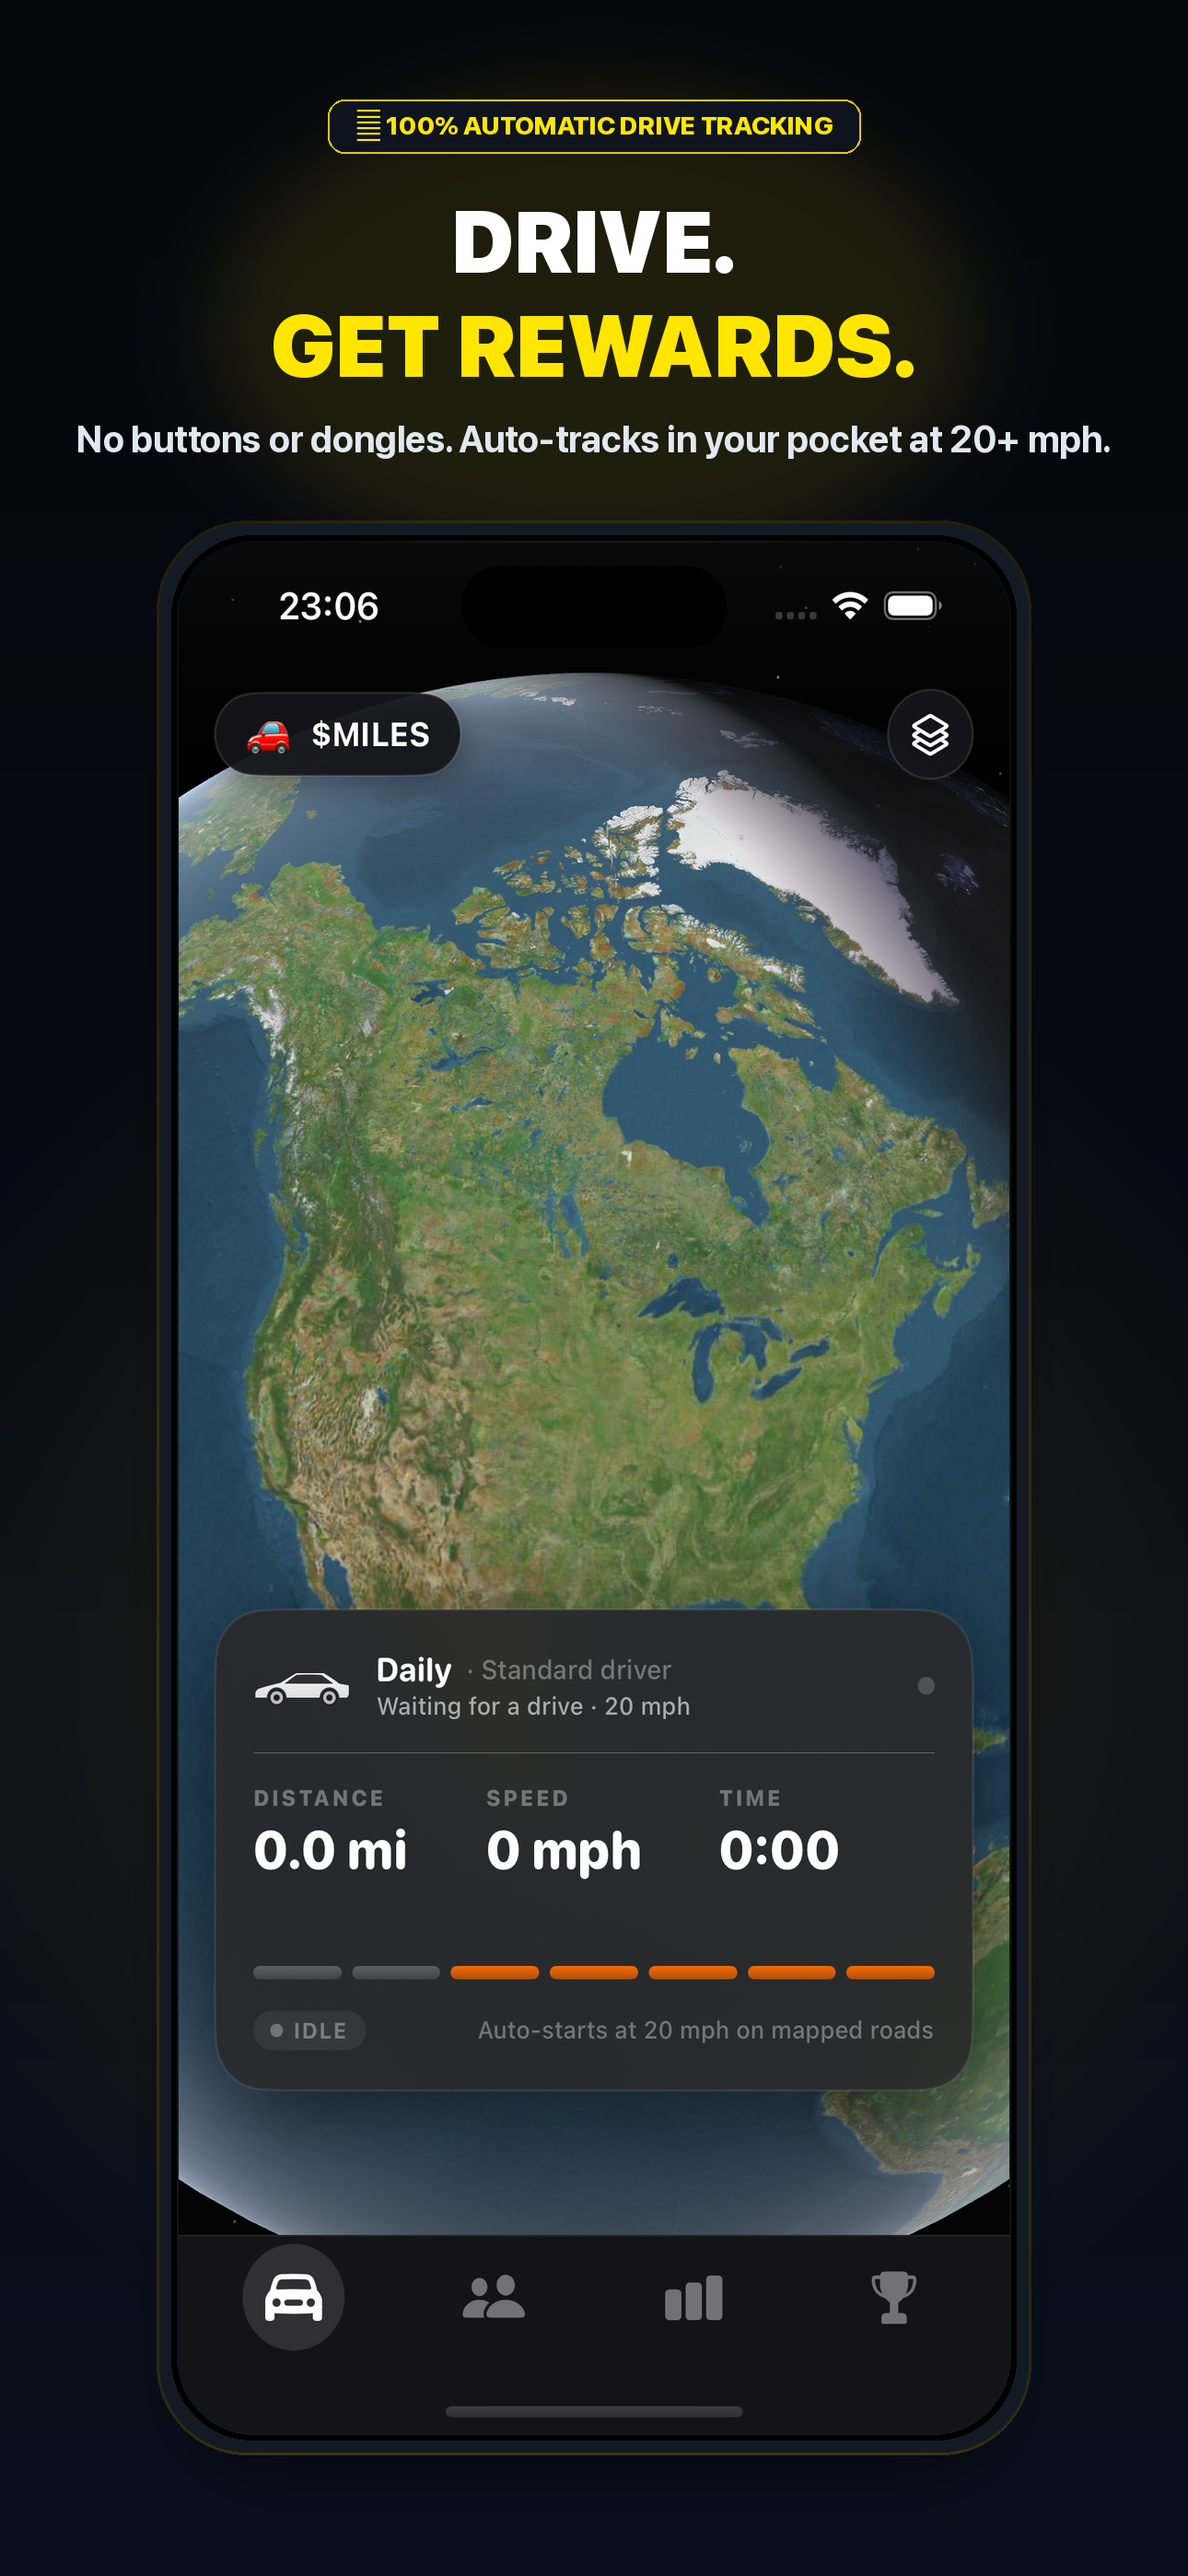
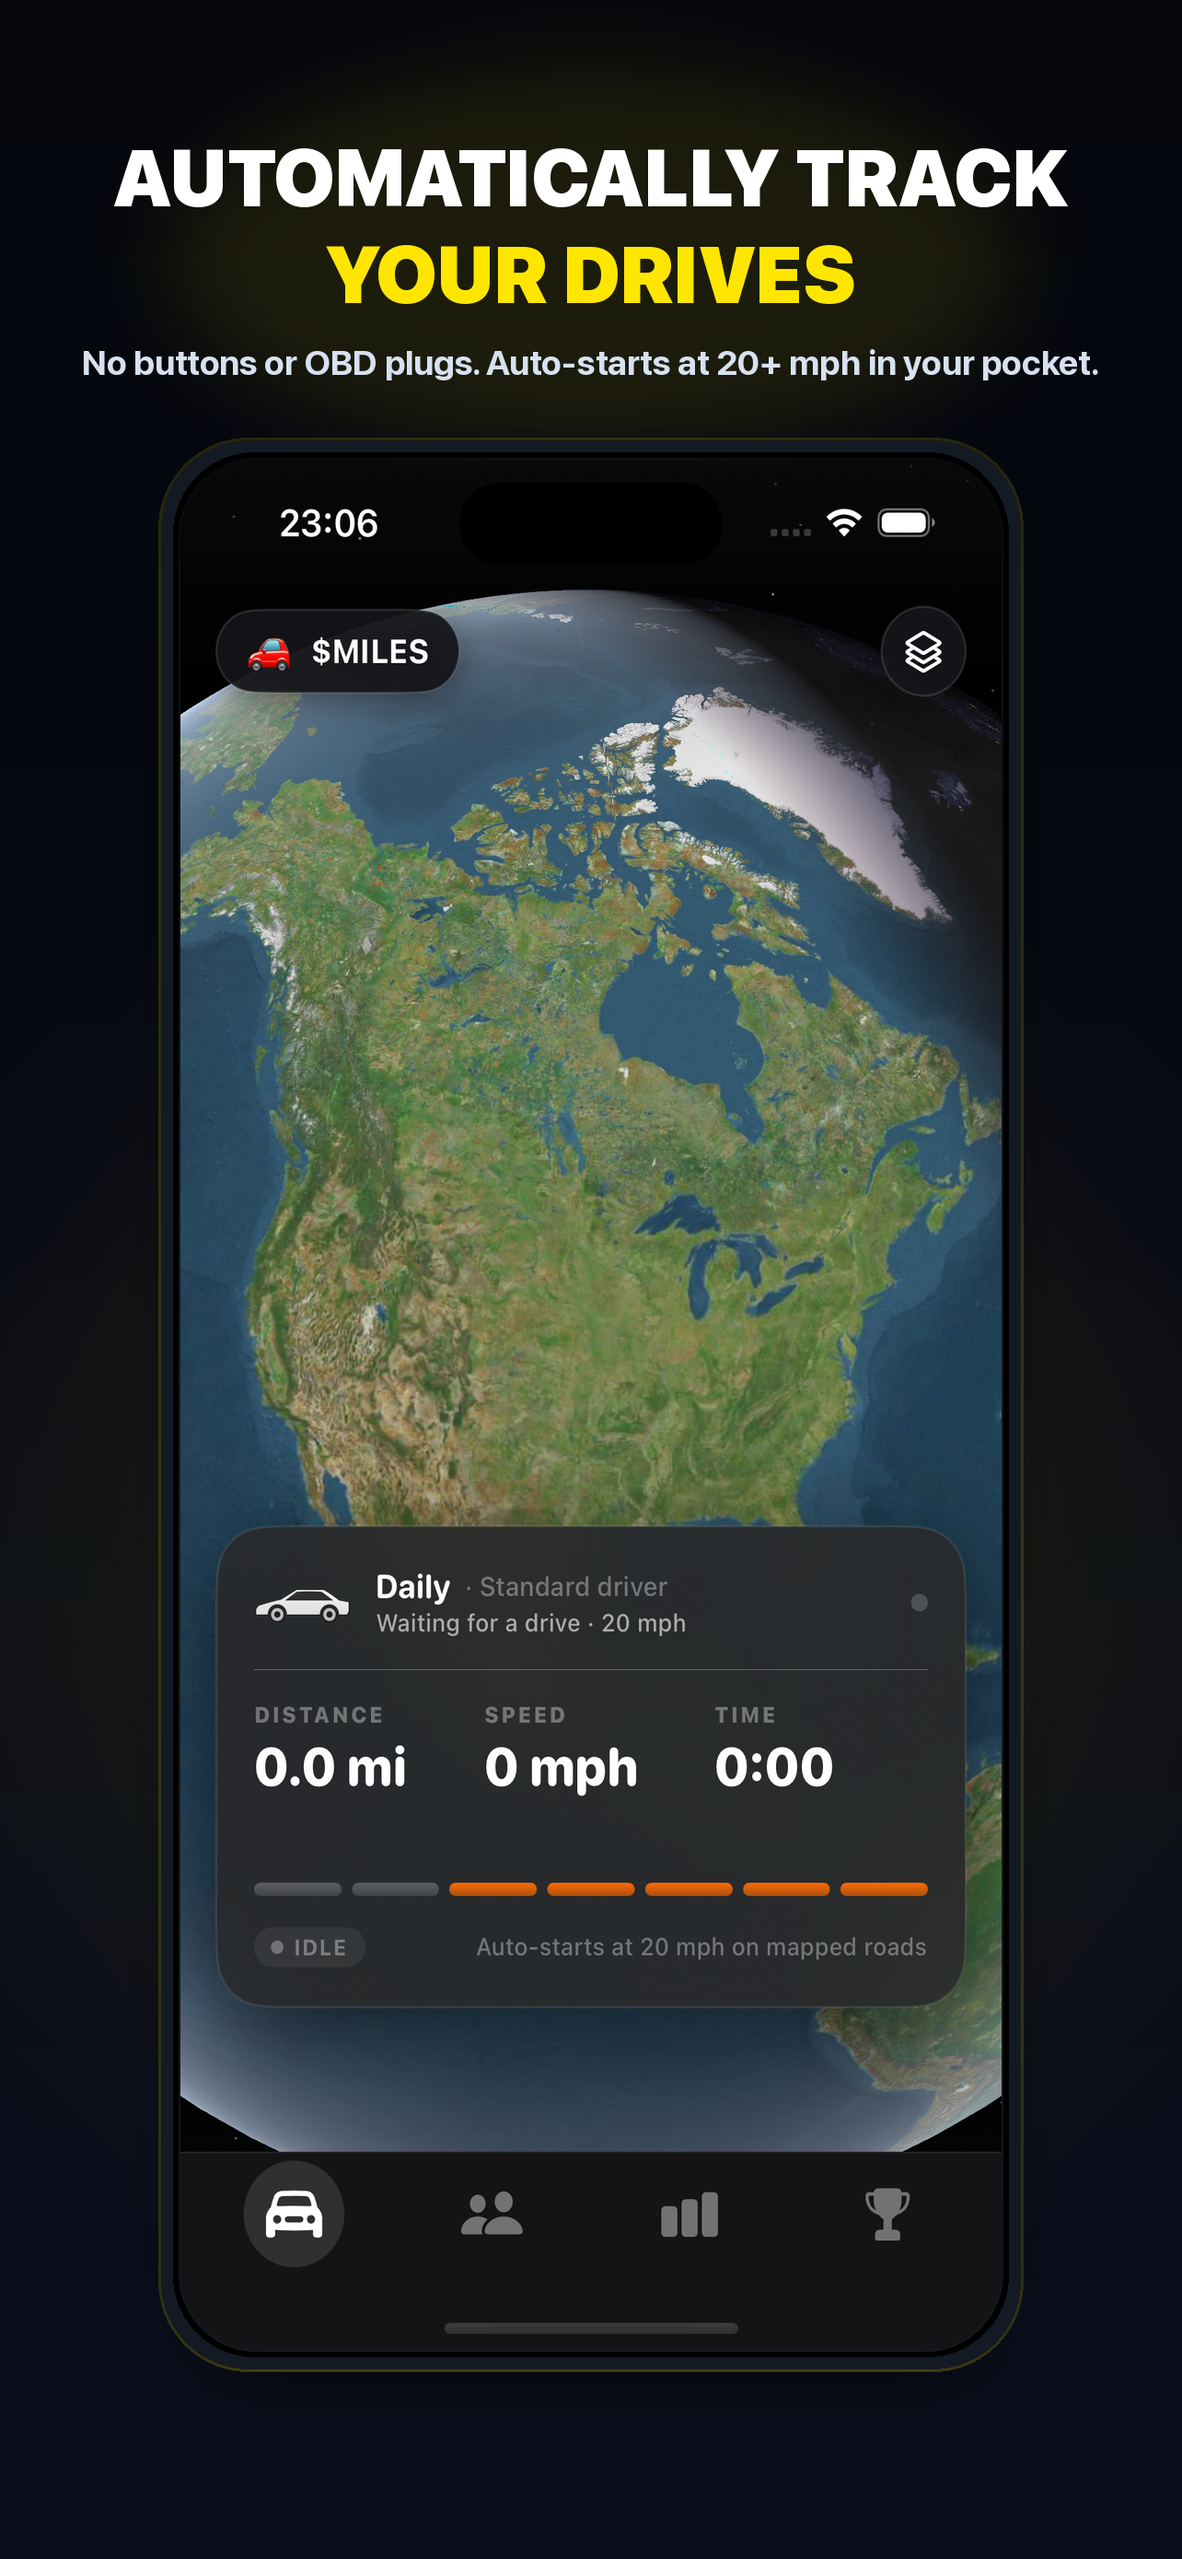
feat: updated screenshots to 1284x2778 with friends convoy, insurance telematics, garage, and removed top orb header

Changed region(s): [[0.0623, 0.031, 0.9346, 0.9597]]

diff --git a/terms.html b/terms.html
@@ -1,0 +1,169 @@
+<!DOCTYPE html>
+<html lang="en">
+<head>
+  <meta charset="UTF-8" />
+  <meta name="viewport" content="width=device-width, initial-scale=1.0" />
+  <title>$MILES — Terms of Use (EULA)</title>
+  <style>
+    :root {
+      --bg: #000000;
+      --card: #111111;
+      --border: rgba(255,255,255,0.08);
+      --yellow: #FFE600;
+      --cyan: #00F2FE;
+      --text: #ffffff;
+      --muted: rgba(255,255,255,0.55);
+      --font: -apple-system, BlinkMacSystemFont, "SF Pro Display", "Segoe UI", sans-serif;
+    }
+    * { box-sizing: border-box; margin: 0; padding: 0; }
+    body {
+      background: var(--bg);
+      color: var(--text);
+      font-family: var(--font);
+      line-height: 1.7;
+      -webkit-font-smoothing: antialiased;
+    }
+    header {
+      border-bottom: 1px solid var(--border);
+      padding: 28px 24px;
+      display: flex;
+      justify-content: space-between;
+      align-items: center;
+      max-width: 960px;
+      margin: 0 auto;
+    }
+    header .brand {
+      font-size: 22px;
+      font-weight: 800;
+      letter-spacing: -0.5px;
+      display: flex;
+      align-items: center;
+      gap: 10px;
+      color: #fff;
+      text-decoration: none;
+    }
+    header .brand span.dot {
+      display: inline-block;
+      width: 9px; height: 9px;
+      border-radius: 50%;
+      background: var(--yellow);
+      box-shadow: 0 0 8px var(--yellow);
+    }
+    header nav a {
+      color: var(--muted);
+      text-decoration: none;
+      font-size: 14px;
+      font-weight: 600;
+      margin-left: 20px;
+      transition: color 0.2s;
+    }
+    header nav a:hover { color: #fff; }
+    main {
+      max-width: 760px;
+      margin: 0 auto;
+      padding: 60px 24px 100px;
+    }
+    h1 {
+      font-size: clamp(32px, 6vw, 48px);
+      font-weight: 900;
+      letter-spacing: -1px;
+      margin-bottom: 8px;
+    }
+    .effective {
+      font-size: 14px;
+      color: var(--muted);
+      margin-bottom: 48px;
+    }
+    h2 {
+      font-size: 20px;
+      font-weight: 700;
+      margin-top: 40px;
+      margin-bottom: 14px;
+      color: #fff;
+    }
+    p {
+      font-size: 15px;
+      color: rgba(255,255,255,0.75);
+      margin-bottom: 16px;
+    }
+    ul {
+      margin-left: 20px;
+      margin-bottom: 18px;
+      color: rgba(255,255,255,0.75);
+      font-size: 15px;
+    }
+    li { margin-bottom: 8px; }
+    .card {
+      background: var(--card);
+      border: 1px solid var(--border);
+      border-radius: 16px;
+      padding: 24px;
+      margin: 28px 0;
+    }
+    .highlight {
+      color: var(--yellow);
+      font-weight: 600;
+    }
+    footer {
+      border-top: 1px solid var(--border);
+      padding: 32px 24px;
+      text-align: center;
+      font-size: 13px;
+      color: var(--muted);
+    }
+    footer a { color: var(--muted); text-decoration: underline; }
+  </style>
+</head>
+<body>
+  <header>
+    <a href="/" class="brand">
+      <span class="dot"></span>
+      $MILES
+    </a>
+    <nav>
+      <a href="/privacy">Privacy</a>
+      <a href="/support">Support</a>
+      <a href="/dashboard">Portal</a>
+    </nav>
+  </header>
+
+  <main>
+    <h1>Terms of Use (EULA)</h1>
+    <div class="effective">Standard End User License Agreement &amp; Subscription Terms &middot; Last updated: September 2026</div>
+
+    <div class="card">
+      <p class="highlight" style="margin-bottom: 6px;">SAFETY &amp; TRAFFIC COMPLIANCE NOTICE</p>
+      <p style="margin: 0; font-size: 14px;">$MILES is designed solely to promote safe, legal driving habits and passive trip journaling. Speeding, reckless driving, or racing is strictly forbidden. Any driver exceeding safe road thresholds will have trips voided. Always keep your eyes on the road and obey local traffic laws.</p>
+    </div>
+
+    <h2>1. Acceptance of Terms</h2>
+    <p>By downloading, installing, or using the $MILES mobile application or web portal, you agree to be bound by these Terms of Use. If you do not agree, do not use the application.</p>
+
+    <h2>2. Subscription Terms &amp; In-App Purchases</h2>
+    <p>$MILES offers auto-renewing subscriptions (&ldquo;$MILES Pro&rdquo;) to enhance your in-app driving tracking experience:</p>
+    <ul>
+      <li><strong>Weekly Pro Pass:</strong> $0.99 billed weekly</li>
+      <li><strong>Monthly Pro Pass:</strong> $2.99 billed monthly</li>
+      <li><strong>Annual Pro Pass:</strong> $14.99 billed annually ($1.25/mo equivalent)</li>
+    </ul>
+    <p>Payment will be charged to your Apple ID account at confirmation of purchase. Subscriptions automatically renew unless auto-renew is turned off at least 24 hours before the end of the current period. Your account will be charged for renewal within 24 hours prior to the end of the current period at the rate of the selected plan.</p>
+    <p>You can manage and cancel your subscriptions by going to your App Store Account Settings after purchase.</p>
+
+    <h2>3. Safe Driving Requirement &amp; Anti-Cheating</h2>
+    <p>$MILES utilizes phone sensors and GPS heuristics to verify automobile travel on mapped roads. You agree not to spoof GPS coordinates, simulate motion, or manipulate trip tracking. Spoofed or hazardous trips are automatically flagged and voided.</p>
+
+    <h2>4. Driver Rewards &amp; Token Disclaimers</h2>
+    <p>Driver points, cosmetic garage vehicle skins, and leaderboard placements are in-app features and do not constitute legal tender, investment contracts, securities, or guaranteed earnings. Web-based claims and decentralized reward interactions take place on independent third-party blockchain protocols outside the mobile binary.</p>
+
+    <h2>5. Termination</h2>
+    <p>We reserve the right to suspend or terminate access to our services for any user violating these terms, engaging in reckless driving, or attempting to exploit trip validation mechanisms.</p>
+
+    <h2>6. Contact &amp; Support</h2>
+    <p>For questions or assistance regarding your account or subscriptions, visit our <a href="/support" style="color: var(--cyan);">Support Portal</a> or email support@miles.icu.</p>
+  </main>
+
+  <footer>
+    &copy; 2026 $MILES. All rights reserved. &middot; <a href="/privacy">Privacy Policy</a> &middot; <a href="/support">Support</a>
+  </footer>
+</body>
+</html>
